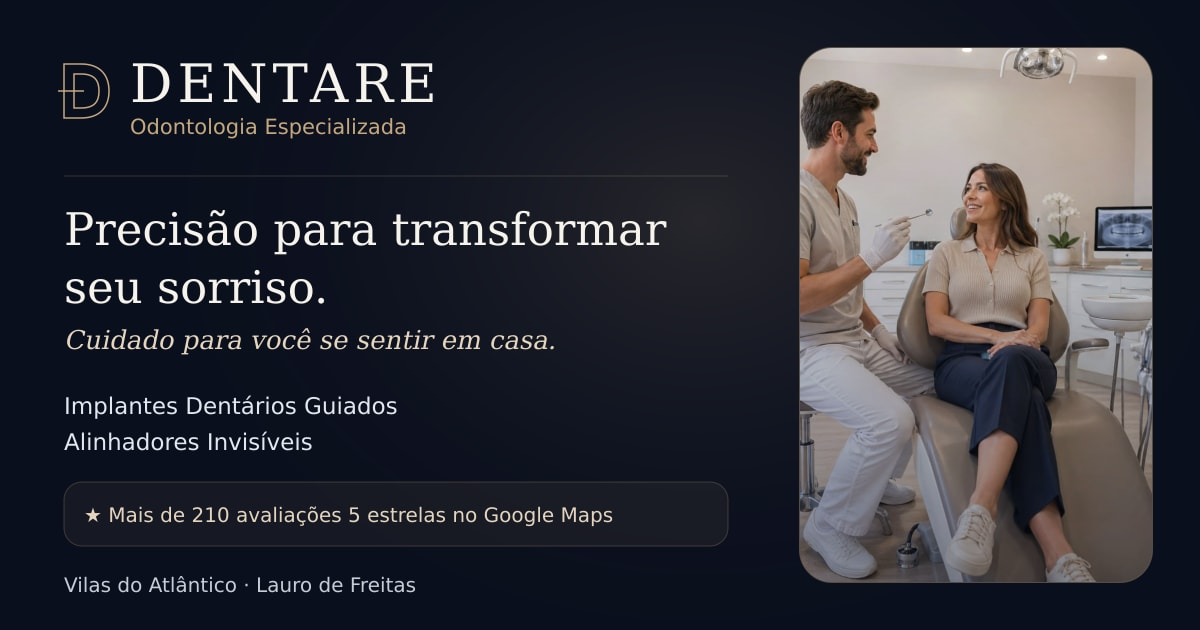
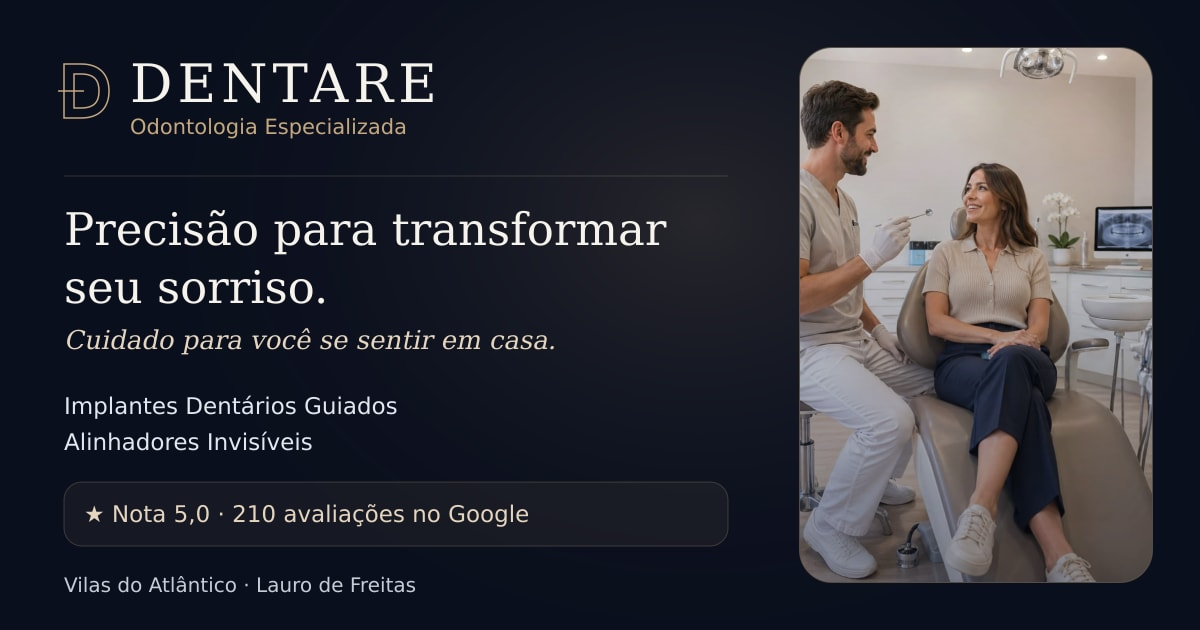
fix: dados 100% verificados, depoimentos literais e noindex

Changed region(s): [[0.0617, 0.7841, 0.5242, 0.8444]]

diff --git a/README.md b/README.md
@@ -31,21 +31,23 @@ O build executa a verificação de tipos do Astro antes de gerar o site estátic
 - `src/components/Tratamentos.astro`: especialidades com destaques técnicos, benefícios e mensagens de WhatsApp por procedimento.
 - `src/components/Depoimentos.astro`: três depoimentos integrais, estrelas e destaque de reputação informado pela clínica.
 - `src/components/LocalizacaoFaq.astro`: endereço detalhado, horários, mapa e acordeão nativo de dúvidas frequentes.
-- `src/components/Footer.astro`: navegação institucional, responsabilidade técnica e informações de privacidade.
+- `src/components/Footer.astro`: navegação institucional, corpo clínico e informações de privacidade.
 - `src/components/FloatingWhatsapp.astro`: conversão persistente com hover suave e espaço ao final da página no mobile.
 - `src/components/Icon.astro`: ícones SVG, incluindo a marca preenchida do WhatsApp, sem dependências adicionais.
 - `src/components/SectionDivider.astro`: divisória decorativa em gradiente entre as seções principais.
 - `src/pages/index.astro`: composição completa da landing page.
 
-O layout aceita `title`, `description`, `canonical`, `socialImage`, `socialImageAlt`, `noindex`, `class` e `bodyClass`. A URL de produção padrão é `https://dentare-theta.vercel.app`, configurada em `seo.siteUrl` no JSON. A variável de ambiente `SITE_URL` pode substituir esse domínio durante o build. O Astro usa essa base para canonical, `og:url` e a URL absoluta de `og:image`. A imagem padrão fica em `public/og-image.jpg` (JPEG de 1200 × 630); os textos e metadados de compartilhamento ficam em `seo.social`.
+O layout aceita `title`, `description`, `canonical`, `socialImage`, `socialImageAlt`, `class` e `bodyClass`. A URL de produção padrão é `https://dentare-theta.vercel.app`, configurada em `seo.siteUrl` no JSON. A variável de ambiente `SITE_URL` pode substituir esse domínio durante o build. O Astro usa essa base para canonical, `og:url` e a URL absoluta de `og:image`. A imagem padrão fica em `public/og-image.jpg` (JPEG de 1200 × 630); os textos e metadados de compartilhamento ficam em `seo.social`.
 
 A nota Google, a contagem de avaliações e os depoimentos foram fornecidos pela clínica. Os depoimentos são preservados na íntegra; `highlight` contém um trecho destacado de cada relato. O quarto procedimento é Estética do Sorriso. A FAQ não fixa condições de parcelamento nem prazos clínicos individuais.
 
-O endereço detalhado inclui Quadra 19, Lote 07, Edifício Ônix, Sala 102. `clinic.technicalResponsibles` contém os dois responsáveis técnicos, seus registros CRO/BA e especialidades, conforme os dados oficiais fornecidos pela clínica. A localização também informa estacionamento no local e acessibilidade.
+O endereço detalhado inclui Quadra 19, Lote 07, Edifício Ônix, Sala 102. `clinic.team` identifica o corpo clínico como Dr. Paulo Victor Ribeiro e equipe multidisciplinar. Números de registro profissional e outras identificações aguardam confirmação direta da clínica e foram removidos desta prévia. A localização também informa estacionamento no local e acessibilidade.
 
 A fotografia do Hero é ilustrativa, de Harold Hisona no Unsplash, e não identifica profissionais ou pacientes da DENTARE. Fonte: https://unsplash.com/photos/dentist-talking-to-patient-in-a-modern-dental-office-Bg81yWKZlMg (Unsplash License). Os recortes WebP de 640, 1024 e 1440 pixels ficam em `public/images/`; caminhos, dimensões, texto alternativo e crédito estão em `hero.visual.image` no JSON.
 
-O selo do WhatsApp consulta os horários oficiais em `America/Bahia`. Ele informa horário de atendimento ou convida ao envio de mensagem; `Online agora` só aparece se `floatingWhatsapp.confirmedOnline` for explicitamente `true`. Não há integração com presença do WhatsApp. A rolagem é nativa da janela, inclusive no mobile; o contêiner de rolagem `#site-content` foi removido. O `html` usa `scroll-padding-top: 5rem` para as âncoras e o fim da página reserva espaço para o botão flutuante. O bloqueio temporário da rolagem existe somente enquanto o menu modal está aberto.
+A prévia usa uma única meta tag `robots` com `noindex, nofollow`, fixa no Layout.
+
+O selo do WhatsApp consulta os horários oficiais em `America/Bahia`. Ele informa horário de atendimento ou convida ao envio de mensagem; `Online agora` só aparece se `floatingWhatsapp.confirmedOnline` for explicitamente `true`. Não há integração com presença do WhatsApp. A rolagem é nativa da janela, inclusive no mobile; o contêiner de rolagem `#site-content` foi removido. O `html` usa `scroll-padding-top: 5rem` para as âncoras e o fim da página reserva espaço para o botão flutuante. O bloqueio temporário da rolagem existe somente enquanto o menu modal está aberto. Abaixo de 1024px, o WhatsApp exibe apenas o botão circular; quando sua área (com margem de 8px) coincide com um link, controle ou mapa, o botão fica invisível até liberar essa ação. A checagem responde à rolagem, redimensionamento, carregamento de fontes e mudanças de tamanho do conteúdo, sem alterar a rolagem nativa.
 
 ## Dependências
 
